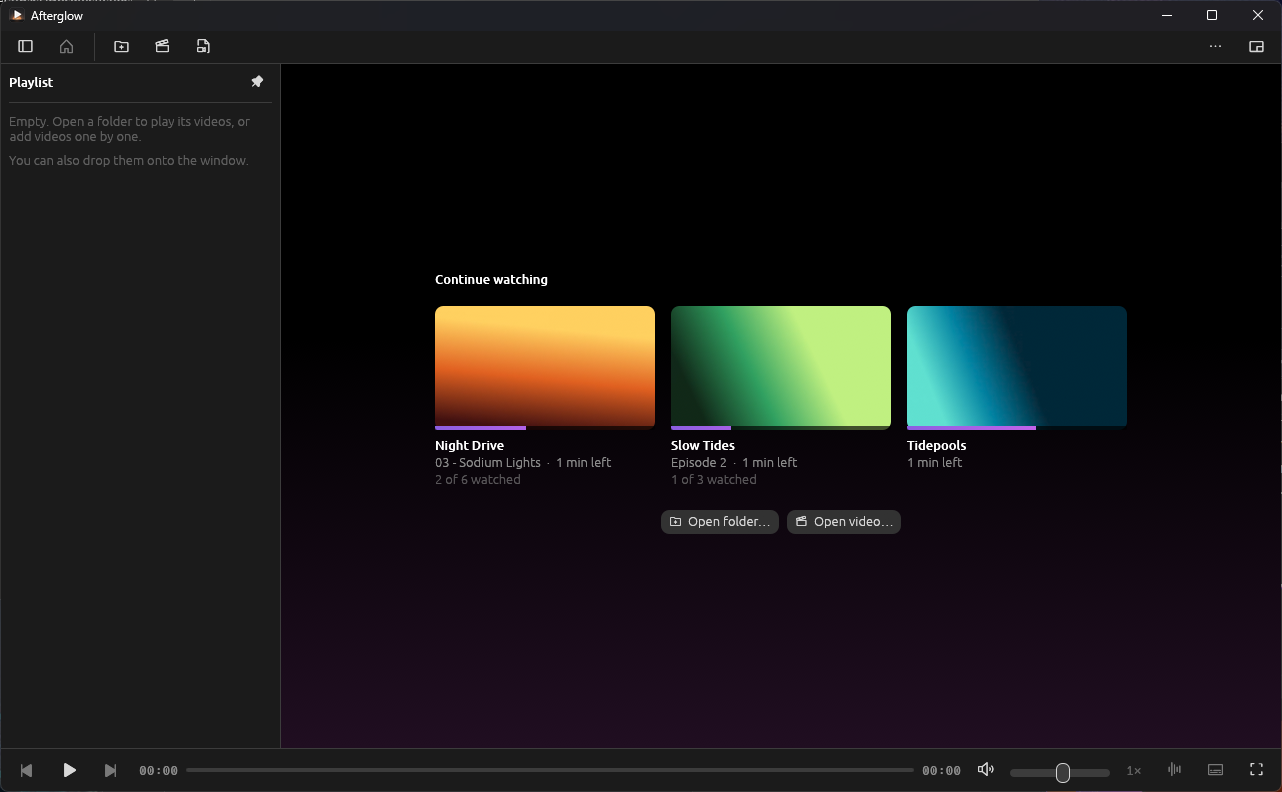
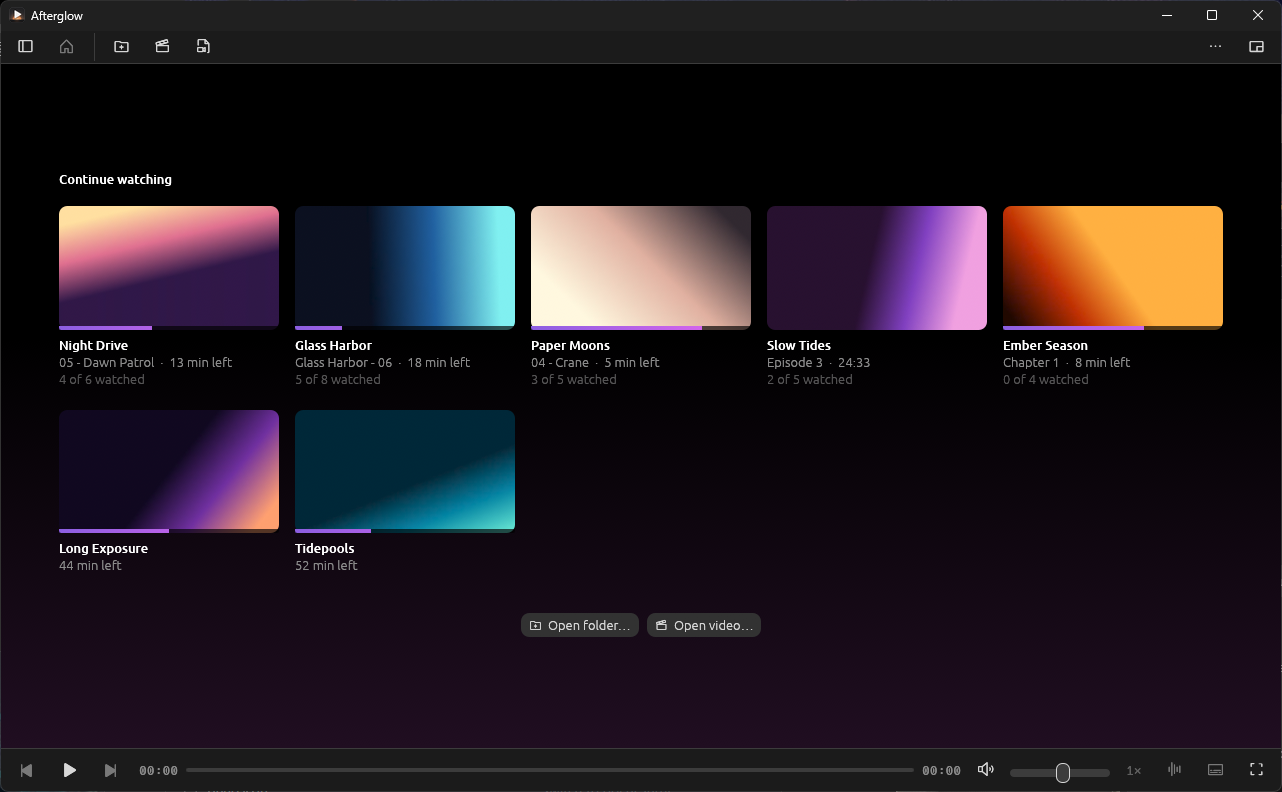
Show the home screen, stats and command palette in the README, with fuller demo shows

diff --git a/README.md b/README.md
@@ -49,6 +49,11 @@ Afterglow isn't code-signed, so Windows SmartScreen may warn you the first time.
 - **Takes screenshots** (C), with subtitles, to the clipboard and `Pictures\Afterglow`.
 - **Has a key for everything.** Press `?` for the list, or Ctrl+K to find any command.
 
+<p>
+<img src="assets/stats.png" width="49%" alt="The stats: time watched, streaks, the last 30 days and the most watched shows">
+<img src="assets/palette.png" width="49%" alt="Ctrl+K finds any command, here the ones for subtitles">
+</p>
+
 | Key | Action |
 | --- | --- |
 | Space | Play / pause |
